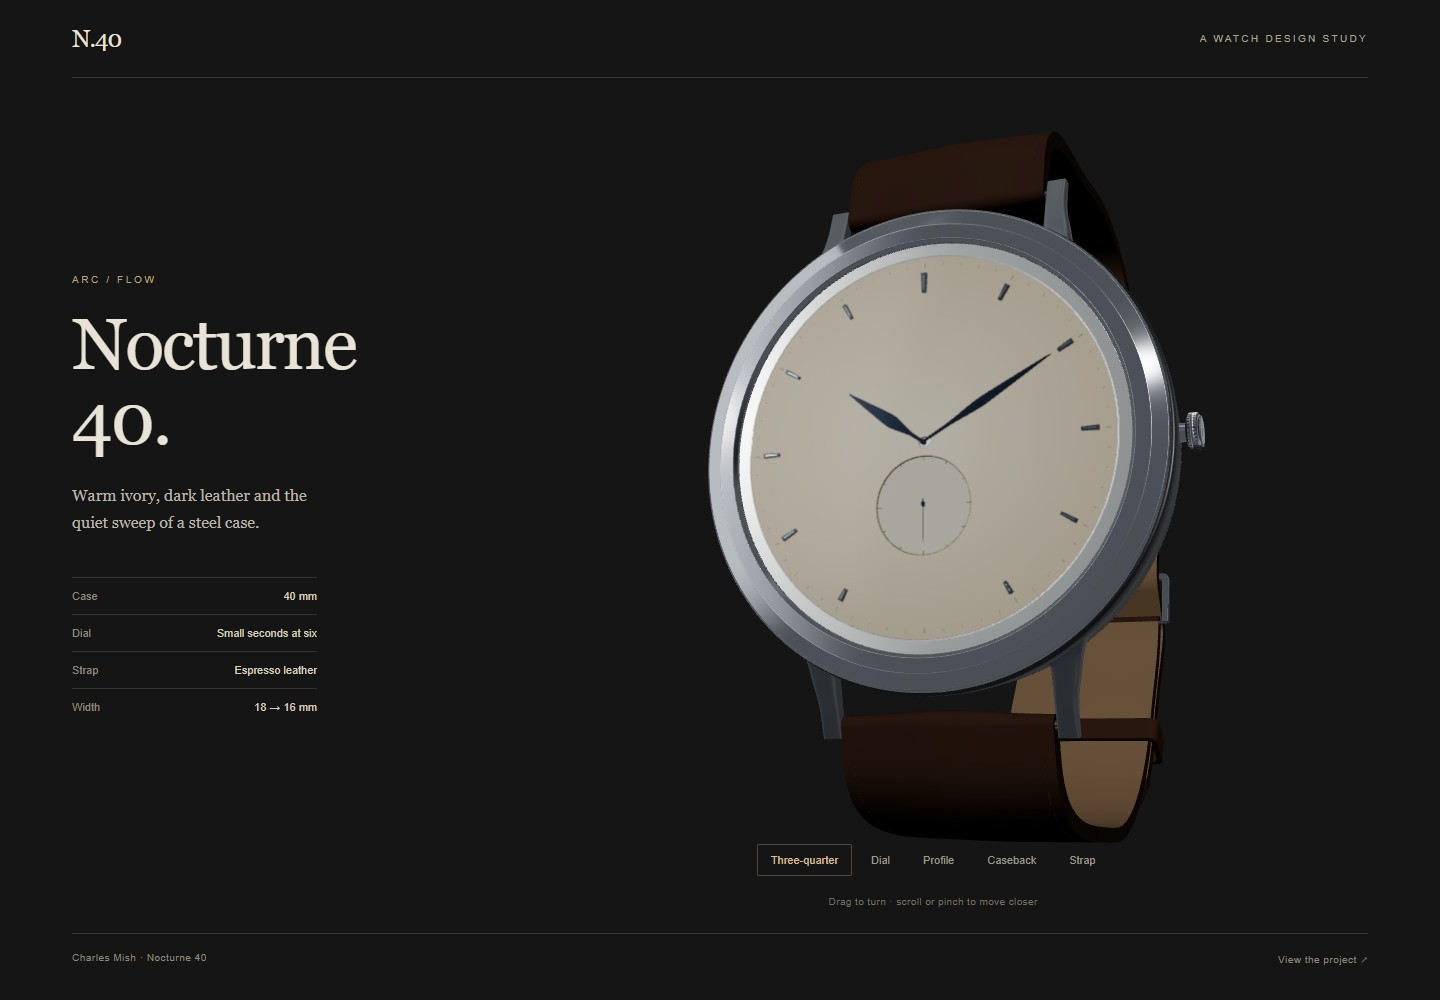
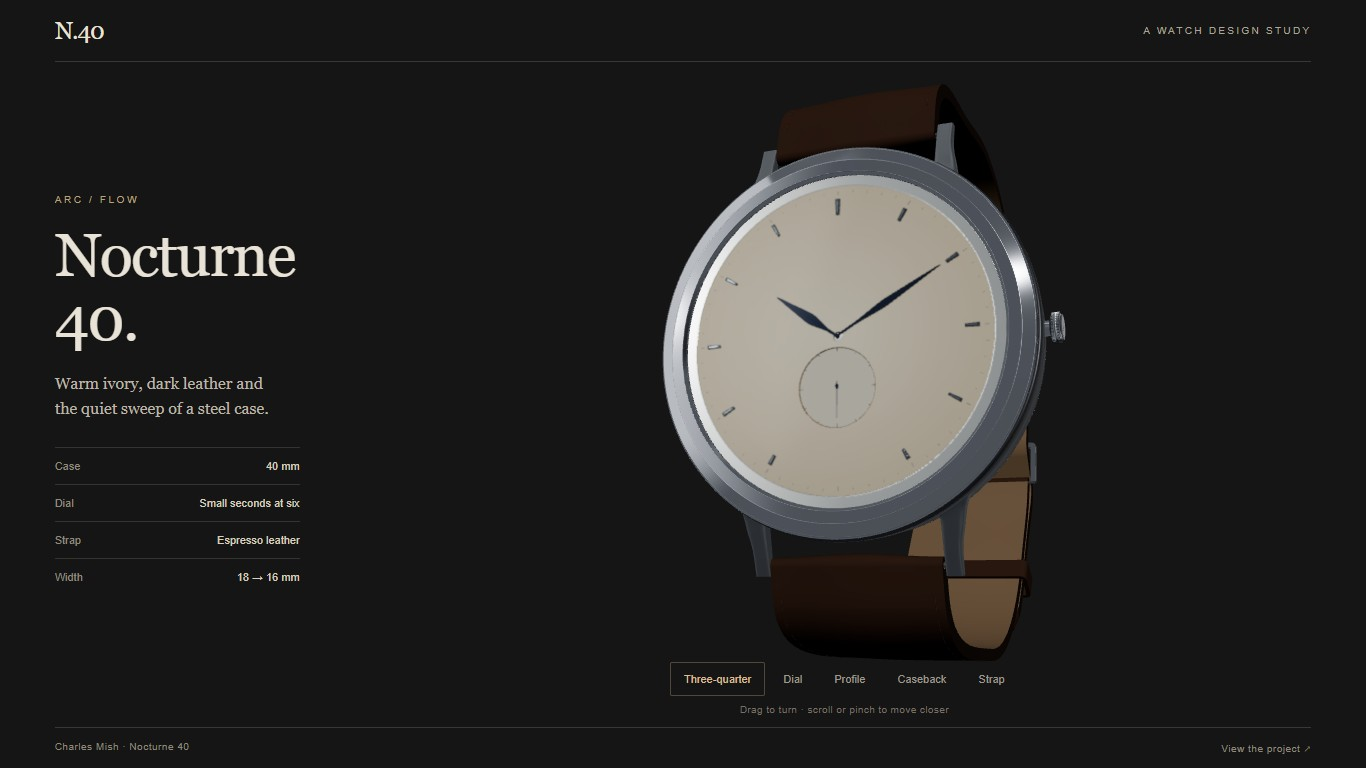
Expand watch presentation and prepare opt-in GitHub Pages hosting

diff --git a/watch.html b/watch.html
@@ -5,35 +5,37 @@
   <meta name="viewport" content="width=device-width,initial-scale=1">
   <meta name="description" content="Nocturne 40. A warm dial, a gently curved case and a complete espresso leather strap. An interactive watch design study.">
   <title>Nocturne 40</title>
+  <link rel="icon" type="image/svg+xml" href="./favicon.svg">
   <style>
     :root{color-scheme:dark;background:#151515;color:#e9e2d6;font-family:Arial,Helvetica,sans-serif}
-    *{box-sizing:border-box}body{margin:0}a{color:inherit}button{font:inherit}
-    header{margin:0 5vw;padding:25px 0;display:flex;align-items:center;justify-content:space-between;border-bottom:1px solid #393733}
+    *{box-sizing:border-box}body{margin:0;height:100svh;min-height:540px;display:grid;grid-template-rows:auto minmax(0,1fr) auto}a{color:inherit}button{font:inherit}
+    header{margin:0 4vw;padding:17px 0;display:flex;align-items:center;justify-content:space-between;border-bottom:1px solid #393733}
     .mark{font:24px Georgia,serif;letter-spacing:-1px;text-decoration:none}.edition{font-size:10px;letter-spacing:2.3px;color:#aba598;text-transform:uppercase}
-    main{display:grid;grid-template-columns:minmax(255px,30%) 1fr;align-items:center;max-width:1600px;margin:auto;padding:0 3vw 0 5vw;min-height:calc(100svh - 145px)}
-    .intro{padding:48px 0 60px;position:relative;z-index:1}.eyebrow{font-size:10px;letter-spacing:2.6px;text-transform:uppercase;color:#bba27e;margin:0 0 22px}
-    h1{font:normal clamp(46px,5vw,78px)/1.04 Georgia,'Times New Roman',serif;letter-spacing:-2px;margin:0 0 25px}
-    .description{font:16px/1.7 Georgia,serif;color:#bdb5a7;max-width:245px;margin:0 0 40px}
+    main{display:grid;grid-template-columns:minmax(210px,23%) minmax(0,1fr);align-items:center;min-height:0;padding:0 2vw 0 4vw}
+    .intro{padding:20px 0;position:relative;z-index:1}.eyebrow{font-size:10px;letter-spacing:2.6px;text-transform:uppercase;color:#bba27e;margin:0 0 18px}
+    h1{font:normal clamp(44px,4.5vw,68px)/1.04 Georgia,'Times New Roman',serif;letter-spacing:-2px;margin:0 0 20px}
+    .description{font:16px/1.6 Georgia,serif;color:#bdb5a7;max-width:230px;margin:0 0 25px}
     dl{margin:0;padding:0;max-width:245px}dl div{padding:12px 0;display:flex;justify-content:space-between;gap:15px;border-top:1px solid #35332f;font-size:11px}dt{color:#918a7f}dd{margin:0;text-align:right;color:#d8cfbf}
-    .stage{position:relative;min-width:0}.viewer{width:100%;height:min(74vw,740px);max-height:calc(100svh - 195px);min-height:480px;border:0;display:block;background:#151515}
-    nav{display:flex;justify-content:center;flex-wrap:wrap;gap:5px;margin:0 0 20px}nav button{padding:9px 13px;background:none;border:1px solid transparent;color:#9e978b;font-size:11px;cursor:pointer;border-radius:2px}nav button:hover{color:#ede6da}nav button[aria-pressed=true]{border-color:#51473a;color:#d8bd94}button:focus-visible,a:focus-visible{outline:2px solid #d8bd94;outline-offset:4px}
-    .instruction{text-align:center;margin:0;color:#776f64;font-size:10px;letter-spacing:.4px}.status{position:absolute;inset:45% 0 auto;text-align:center;color:#9e978b;font-size:12px;pointer-events:none}.status[hidden]{display:none}
-    footer{margin:0 5vw;padding:18px 0;border-top:1px solid #393733;display:flex;justify-content:space-between;gap:20px;font-size:10px;color:#8f887d;letter-spacing:.5px}footer a{text-decoration:none}footer a:hover{color:#d8bd94}
-    @media(max-width:760px){header{padding:19px 0}.edition{font-size:9px;letter-spacing:1.5px}main{display:flex;flex-direction:column;padding:0 4vw}.intro{padding:35px 5vw 0;width:100%;text-align:center}h1{font-size:48px;margin-bottom:13px}.eyebrow{margin-bottom:13px}.description{max-width:360px;margin:0 auto 0;font-size:15px}dl{display:none}.stage{width:100%}.viewer{height:112vw;min-height:390px;max-height:620px}nav{margin-bottom:10px}.instruction{margin-bottom:25px}footer{font-size:9px} }
+    .stage{position:relative;min-width:0;min-height:0;height:100%;display:grid;grid-template-rows:minmax(0,1fr) auto auto}.viewer{width:100%;height:100%;min-height:0;border:0;display:block;background:#151515}
+    nav{display:flex;justify-content:center;flex-wrap:wrap;gap:4px;margin:0 0 8px}nav button{padding:10px 13px;background:none;border:1px solid transparent;color:#9e978b;font-size:11px;cursor:pointer;border-radius:2px}nav button:hover{color:#ede6da}nav button[aria-pressed=true]{border-color:#51473a;color:#d8bd94}button:focus-visible,a:focus-visible{outline:2px solid #d8bd94;outline-offset:4px}
+    .instruction{text-align:center;margin:0 0 12px;color:#776f64;font-size:10px;letter-spacing:.4px}.status{position:absolute;inset:45% 0 auto;text-align:center;color:#9e978b;font-size:12px;pointer-events:none}.status[hidden]{display:none}
+    footer{margin:0 4vw;padding:13px 0;border-top:1px solid #393733;display:flex;justify-content:space-between;gap:16px;font-size:10px;color:#8f887d;letter-spacing:.5px}footer a{text-decoration:none}footer a:hover{color:#d8bd94}
+    @media(max-width:760px){body{min-height:600px}header{padding:13px 0}.edition{font-size:9px;letter-spacing:1.5px}main{display:flex;flex-direction:column;padding:0 3vw}.intro{flex:none;padding:15px 2vw 0;width:100%;text-align:center}h1{font-size:34px;letter-spacing:-1px;margin-bottom:8px}h1 br{display:none}.eyebrow,dl{display:none}.description{max-width:340px;margin:0 auto;font-size:14px}.stage{flex:1;width:100%;height:auto}nav{gap:2px}nav button{padding:10px 11px}.instruction{margin-bottom:10px}footer{font-size:9px}}
+    @media(min-width:761px) and (max-height:600px){body{min-height:420px}.intro dl{display:none}.description{margin-bottom:0}header{padding:12px 0}footer{padding:10px 0}}
     @media(prefers-reduced-motion:reduce){*{scroll-behavior:auto}}
   </style>
 </head>
 <body>
   <header><a class="mark" href="./watch.html" aria-label="Nocturne 40 home">N.40</a><span class="edition">A watch design study</span></header>
   <main>
-    <section class="intro" aria-labelledby="title"><p class="eyebrow">Arc / Flow</p><h1 id="title">Nocturne<br>40.</h1><p class="description">Warm ivory, dark leather and the quiet sweep of a steel case.</p><dl><div><dt>Case</dt><dd>40 mm</dd></div><div><dt>Dial</dt><dd>Small seconds at six</dd></div><div><dt>Strap</dt><dd>Espresso leather</dd></div><div><dt>Width</dt><dd>18 → 16 mm</dd></div></dl></section>
+    <section class="intro" aria-labelledby="title"><p class="eyebrow">Arc / Flow</p><h1 id="title">Nocturne<br> 40.</h1><p class="description">Warm ivory, dark leather and the quiet sweep of a steel case.</p><dl><div><dt>Case</dt><dd>40 mm</dd></div><div><dt>Dial</dt><dd>Small seconds at six</dd></div><div><dt>Strap</dt><dd>Espresso leather</dd></div><div><dt>Width</dt><dd>18 → 16 mm</dd></div></dl></section>
     <section class="stage" aria-label="Interactive watch"><iframe class="viewer" id="watch" title="Interactive Nocturne 40 watch"></iframe><p class="status" id="status" role="status">Preparing the watch…</p><nav aria-label="Watch views"><button data-view="oblique" aria-pressed="true">Three-quarter</button><button data-view="dial" aria-pressed="false">Dial</button><button data-view="wearside" aria-pressed="false">Profile</button><button data-view="back" aria-pressed="false">Caseback</button><button data-view="closure" aria-pressed="false">Strap</button></nav><p class="instruction">Drag to turn · scroll or pinch to move closer</p></section>
   </main>
   <footer><span>Charles Mish · Nocturne 40</span><a href="https://github.com/CharlesMish/nocturne40" target="_blank" rel="noopener noreferrer">View the project ↗</a></footer>
   <script type="module">
     const frame=document.querySelector('#watch'),status=document.querySelector('#status');let view='oblique',ready=false;
     const query=new URLSearchParams({design:'synthesis',finish:'physical2',exploration:'arc',lug:'flow',refinement:'finish',strap:'complete',strapPose:'closed',size:'170',view,light:'neutral',pose:'ten-ten',embed:'1',presentation:'1'});
-    frame.src='./index.html?'+query;
+    frame.src=(import.meta.env.MODE==='pages'?'./viewer.html?':'./index.html?')+query;
     function update(){if(ready)frame.contentWindow.postMessage({type:'nocturne:compare',view,light:'neutral',pose:'ten-ten',sweep:false},location.origin);}
     document.querySelectorAll('[data-view]').forEach(button=>button.addEventListener('click',()=>{view=button.dataset.view;document.querySelectorAll('[data-view]').forEach(b=>b.setAttribute('aria-pressed',String(b===button)));update();}));
     window.addEventListener('message',event=>{if(event.origin!==location.origin||event.source!==frame.contentWindow)return;if(event.data?.type==='nocturne:ready'){ready=true;status.hidden=true;update();}else if(event.data?.type==='nocturne:error'){status.textContent='The watch could not load. Refresh to try again.';}});

diff --git a/vite.config.ts b/vite.config.ts
@@ -1,8 +1,13 @@
 import { defineConfig } from "vite";
 
-export default defineConfig({
+export default defineConfig(({ mode }) => ({
   base: './',
   assetsInclude: ["**/*.glb"],
   server: {watch: {ignored: ["**/.review/**"]}},
-  build: {rollupOptions: {input: {viewer: "index.html", presentation: "watch.html", comparison: "compare.html", exploration: "explore.html", lugs: "lugs.html", finishing: "finish.html"}}},
-});
+  build: {
+    outDir: mode === 'pages' ? 'dist-pages' : 'dist',
+    rollupOptions: {input: mode === 'pages'
+      ? {viewer: 'index.html', presentation: 'watch.html'}
+      : {viewer: 'index.html', presentation: 'watch.html', comparison: 'compare.html', exploration: 'explore.html', lugs: 'lugs.html', finishing: 'finish.html'}},
+  },
+}));

diff --git a/index.html b/index.html
@@ -9,6 +9,7 @@
       body {
         margin: 0;
         height: 100%;
+        overflow: hidden;
         background: #111;
         color: #ddd;
         font: 13px/1.4 ui-sans-serif, system-ui, sans-serif;

diff --git a/docs/GITHUB_PAGES.md b/docs/GITHUB_PAGES.md
@@ -1,0 +1,38 @@
+# Presentation and GitHub Pages
+
+Open `/watch.html` on the local Vite server. The layout gives the viewer about three quarters of the desktop content width and uses the available window height. The heading becomes compact on phones. The Three.js document cannot create its own scrollbars; very short windows or heavy browser zoom can still scroll the outer page to keep all controls accessible.
+
+## Build and preview
+
+```sh
+npm ci
+npm run check
+npm run build:pages
+npm run preview:pages
+```
+
+Open the preview server's root URL. The `dist-pages/` artifact contains:
+
+- `index.html`: the public presentation, directly at the site's root.
+- `watch.html`: the same presentation at its existing address.
+- `viewer.html`: the Three.js viewer embedded by the presentation.
+- `assets/`: the bundled code and model needed to render the watch.
+
+Relative paths work at both a domain root and a project path such as `/nocturne40/`. The local comparison pages and `.review/` files are excluded from this artifact. Ordinary `npm run dev` and `npm run build` retain the existing local viewer and comparison routes.
+
+## Enable hosting later
+
+The workflow in `.github/workflows/pages.yml` builds and uploads the site on pushes to `astra/exploration`. Publishing stays off while the repository variable `DEPLOY_PAGES` is absent or not equal to `true`.
+
+When ready to publish:
+
+1. In [repository Pages settings](https://github.com/CharlesMish/nocturne40/settings/pages), set **Build and deployment → Source → GitHub Actions**.
+2. In [repository environment settings](https://github.com/CharlesMish/nocturne40/settings/environments), make sure the `github-pages` environment allows deployment from **`astra/exploration`**. Add that branch to its allowed deployment branches if necessary.
+3. In [Actions variables](https://github.com/CharlesMish/nocturne40/settings/variables/actions), create the repository variable **`DEPLOY_PAGES`** with value **`true`**.
+4. Push the next update to `astra/exploration`. In **Actions → Build watch / GitHub Pages**, confirm that both the build and deploy jobs succeed.
+
+The expected public address is `https://charlesmish.github.io/nocturne40/`. It becomes live only after a successful deployment. GitHub also reports the actual URL on the deployment and in Pages settings.
+
+The workflow publishes the exploration branch, so the frozen `main` baseline does not need to change. It uses GitHub's built-in token and Pages artifact deployment; no personal access token or separate hosting branch is needed. Setting `DEPLOY_PAGES` to `false` pauses future deployments, but does not unpublish an already deployed site.
+
+This setup follows [GitHub's custom Pages workflow documentation](https://docs.github.com/en/pages/getting-started-with-github-pages/using-custom-workflows-with-github-pages).

diff --git a/docs/COMPLETE_STRAP.md b/docs/COMPLETE_STRAP.md
@@ -28,7 +28,7 @@ Useful query settings:
 
 The local comparison is `/.review/wearable/compare.html`; saved matched views are at `/.review/wearable/index.html`. These review tools and captures remain local. The comparator matches the watch, environment, exposure and camera settings; closure macros center each buckle separately. On another checkout, open two direct viewer URLs with identical settings, omitting `strap=complete` on the control.
 
-`watch.html` is a tracked Vite build entry. Build with `node node_modules/vite/bin/vite.js build`; relative asset paths support deployment beneath a repository subpath. A production build is prepared for hosting; committing the page does not itself activate GitHub Pages.
+`watch.html` is a tracked Vite build entry. `npm run build` retains the local viewer routes; `npm run build:pages` creates a dedicated presentation homepage with relative asset paths. See [GitHub Pages setup](GITHUB_PAGES.md) for the opt-in publishing workflow.
 
 ## Construction
 

diff --git a/README.md b/README.md
@@ -6,6 +6,8 @@ An interactive watch design study: a warm ivory dial, Arc case, Flow lugs and es
 
 Run the commands below and open `/watch.html` for the clean presentation. The current exploration includes a complete 65 / 115 mm strap, seven adjustment holes, and open and closed poses. See [complete strap and presentation notes](docs/COMPLETE_STRAP.md) for controls, construction and validation limits.
 
+The presentation fits ordinary desktop windows and phones with more space for the interactive watch. A dedicated `npm run build:pages` build makes it the public homepage; the GitHub Actions workflow is ready, with publishing off until enabled. See [GitHub Pages setup](docs/GITHUB_PAGES.md).
+
 ## Accepted design baseline
 
 The accepted design uses the selected warm dial and the second physical-finish pass.
